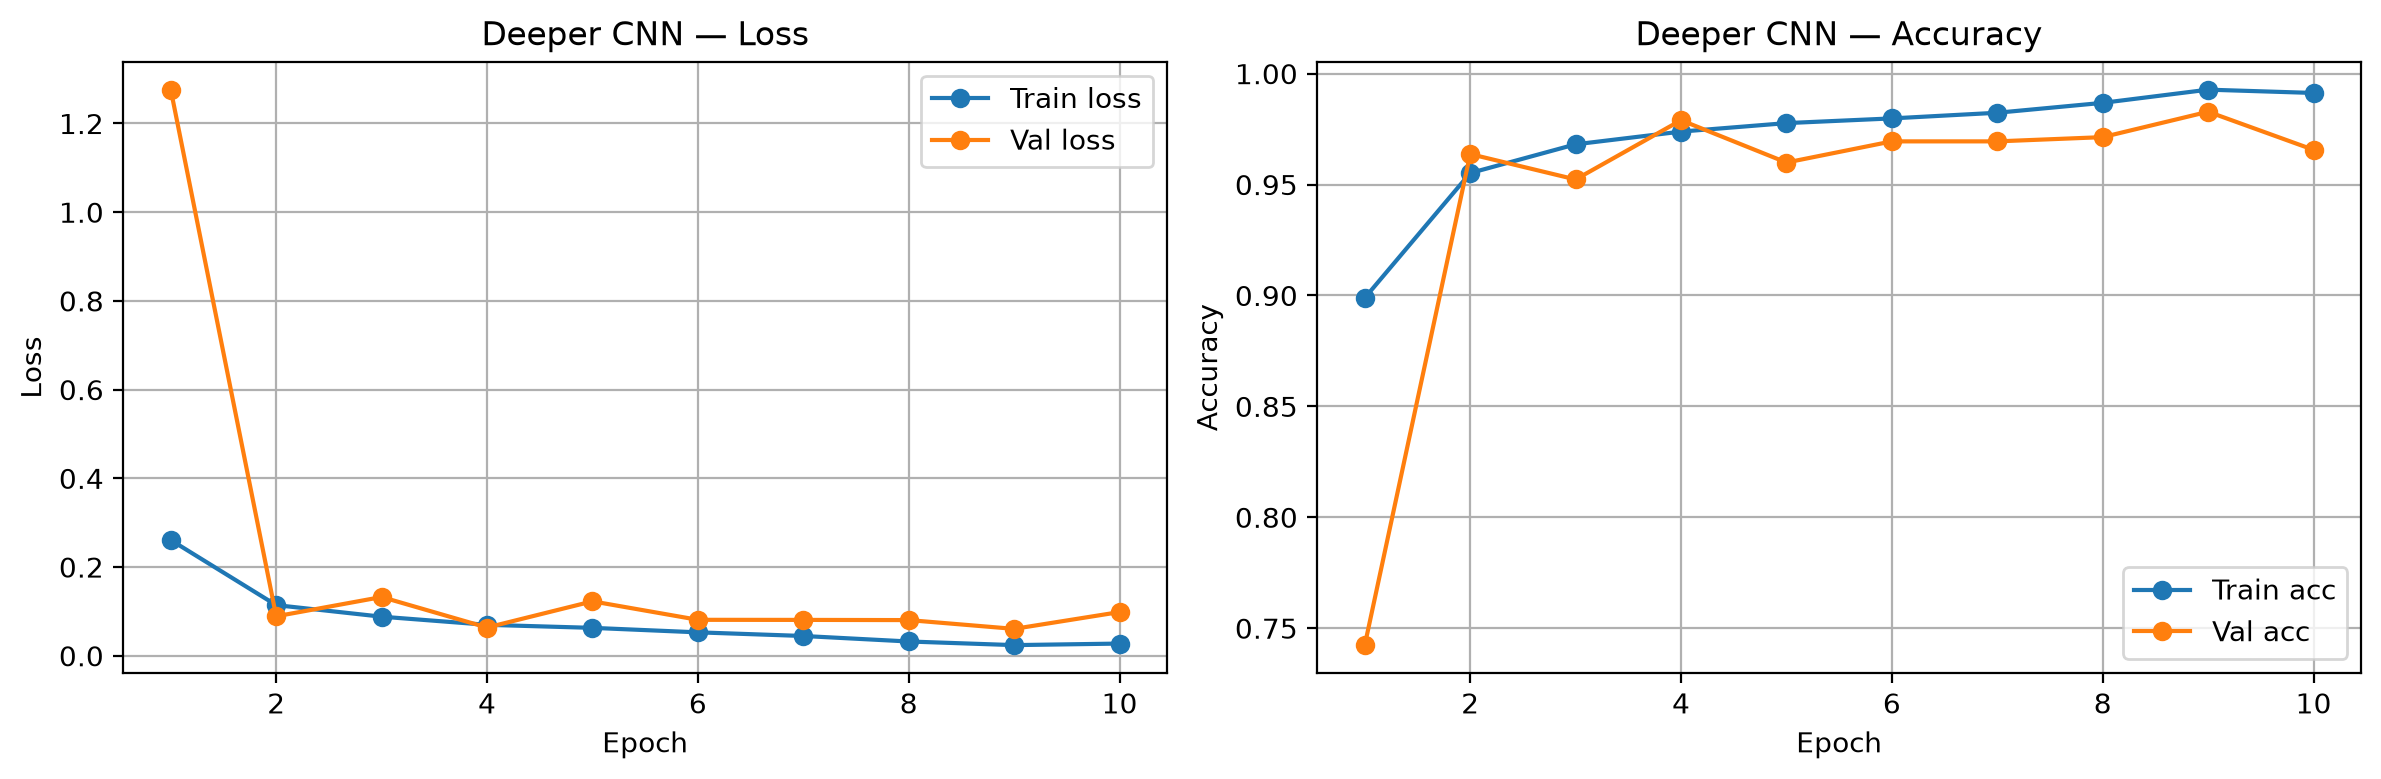
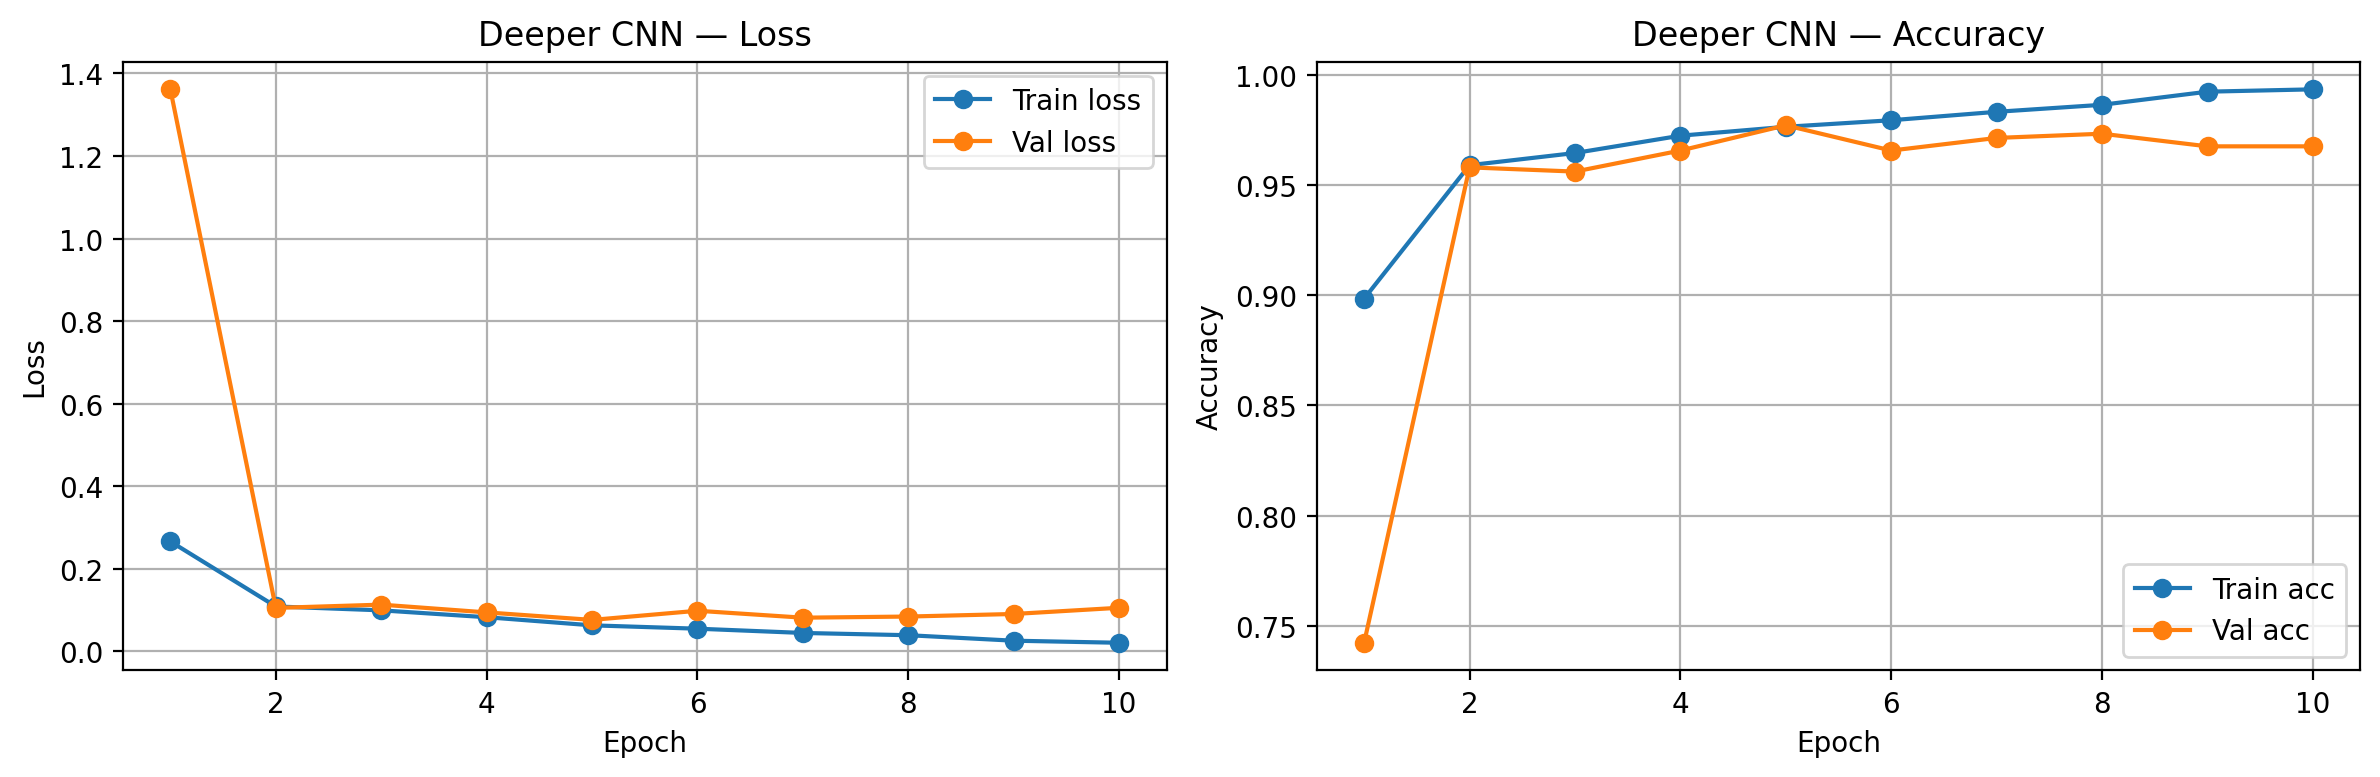
corrected the deeper_deepLearning document. Now everything runs smoothly.

diff --git a/src/models/deeper_deepLearning.py b/src/models/deeper_deepLearning.py
@@ -225,15 +225,31 @@ for epoch in range(1, NUM_EPOCHS + 1):
           f"Train Loss: {epoch_train_loss:.4f}, Train Acc: {epoch_train_acc:.4f} | "
           f"Val Loss: {epoch_val_loss:.4f}, Val Acc: {epoch_val_acc:.4f}")
 
-# if validation accuracy improved, save best model checkpoint
+    # if validation accuracy improved, save best model checkpoint
     if epoch_val_acc > best_val_acc:
         best_val_acc = epoch_val_acc
-        save_best_model(run_dir, epoch, model, best_val_acc)
-# periodic checkpointing
+        save_best_model(
+            run_dir,
+            epoch,
+            model,
+            optimizer,
+            train_losses,
+            val_losses,
+            train_accuracies,
+            val_accuracies,
+        )
+
+    # periodic checkpointing
     if epoch % CHECKPOINT_EVERY == 0:
         save_checkpoint(
-            run_dir, epoch, model, optimizer,
-            train_losses, val_losses, train_accuracies, val_accuracies,
+            run_dir,
+            epoch,
+            model,
+            optimizer,
+            train_losses,
+            val_losses,
+            train_accuracies,
+            val_accuracies,
         )
 # -------------------------------------------------------------------
 # LOSS-plot (training & validation)

diff --git a/src/models/pneumonia_baseline.py b/src/models/pneumonia_baseline.py
@@ -59,7 +59,7 @@ pipe = Pipeline([
 ])
 
 gs = GridSearchCV(pipe, param_grid=hyperparameter_space,
-                  scoring='accuracy', cv=KNN_CV_FOLDS, n_jobs=-1, refit=True)
+                  scoring='accuracy', cv=KNN_CV_FOLDS, n_jobs=1, refit=True)
 
 gs.fit(X_train, y_train)
 